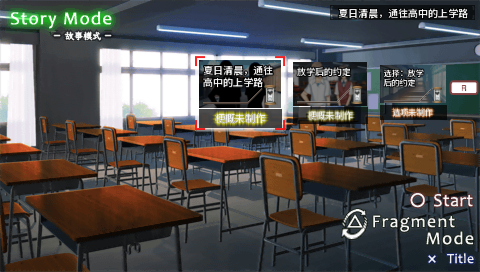
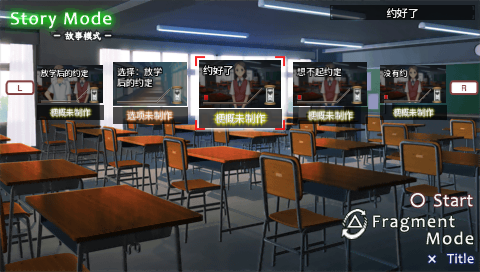
docs: plot 底板收尾验证——全量测试 1869 绿、发布盘出盘与开机、两条时间轴游戏内截图（最终配方）

diff --git a/docs/ops/plot-plate-research-2026-09-07.md b/docs/ops/plot-plate-research-2026-09-07.md
@@ -234,3 +234,14 @@ uv run python tools/build_disc.py --profile test --mode scene --scene s2s_150 --
 158（宽 8.1）、182/185/188（约 8.0–8.3，同一间病房，残差集中在床沿高对比边）、184（10.9，同一张 CG、纹理噪声）、
 194（8.3）。整帧位移（1 px 步长）、分数缩放、全素材（81 bg + 121 event）× 位移网格暴力替换、叠层假设都试过，无一改善——卡 184 的全素材专攻搜索确认 `eve_28_c@(0,0)` 就是最优解 → **它们离重采样地板只差 3–6，
 差的是素材版本或当年截图状态本身**。观感上都是同一张画（见 `final_sheet4_orig_vs_product.png`）。
+
+### 收尾验证（2026-09-07 12:5x）
+
+- `uv run pytest -m "not emu"`：**1869 通过 / 3 跳过，退出码 0**。
+- 数据自洽：195 行配方的 `verify_rmse` 与工具重量逐行一致（0 处偏差）。
+- 发布盘：`build_disc.py --profile release` 出盘、发布断言全过；plot 三张 sheet 量化损耗 9.34 / 9.16 / 5.46（阈 15）。
+  发布 ISO 在 PPSSPP 上开机链正常（进序章题词）。
+- 游戏内：test 盘 `--mode mainmenu --no-cards` 的 Story / Fragment 两条时间轴各 7 帧，底板与中文标题正常、无残留原文
+  （`ingame_story_timeline.png` / `ingame_fragment_timeline.png` 已更新为最终配方的截图）。
+- 配方来源分布：场景配方 50、平板家族 42、暴力单图 33、主线程探针 30、细化搜索 26、猎手/复核 11、其他 3。
+  用到的机制：多层合成 66、素材缩放 17、边缘延伸 22、整帧裁切 2、logo 板 1、纯黑变体 1。
